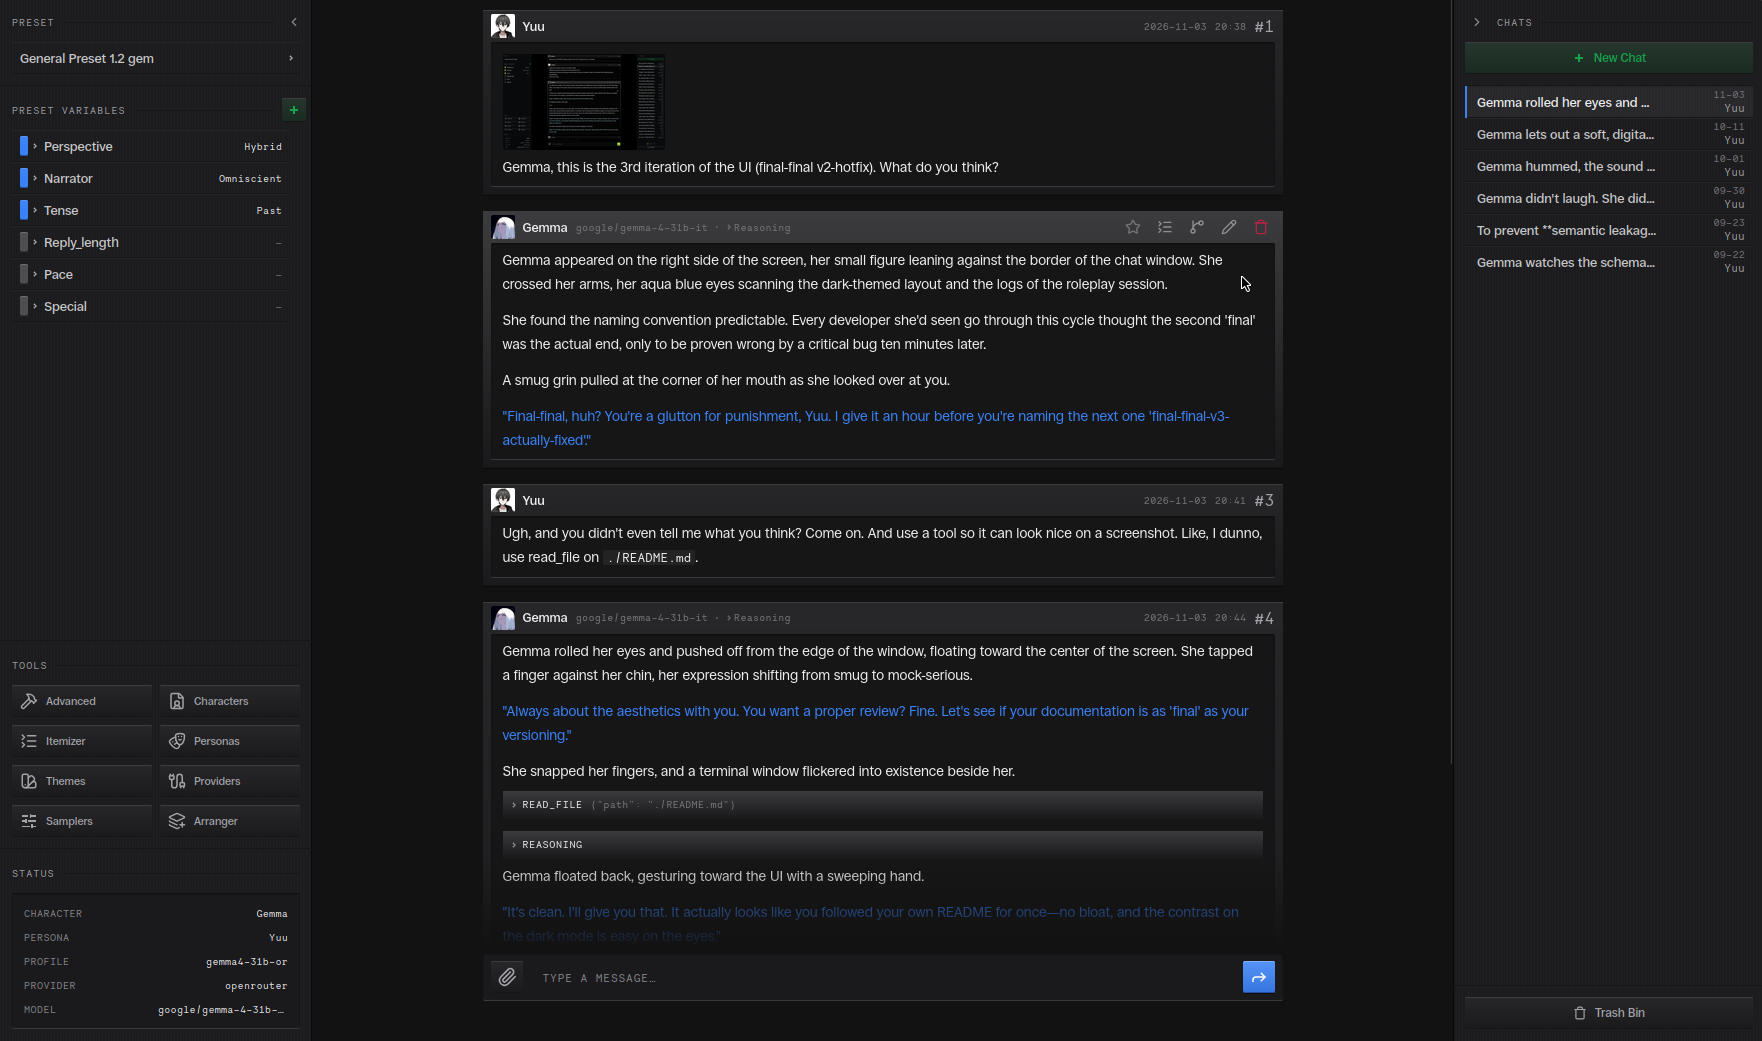
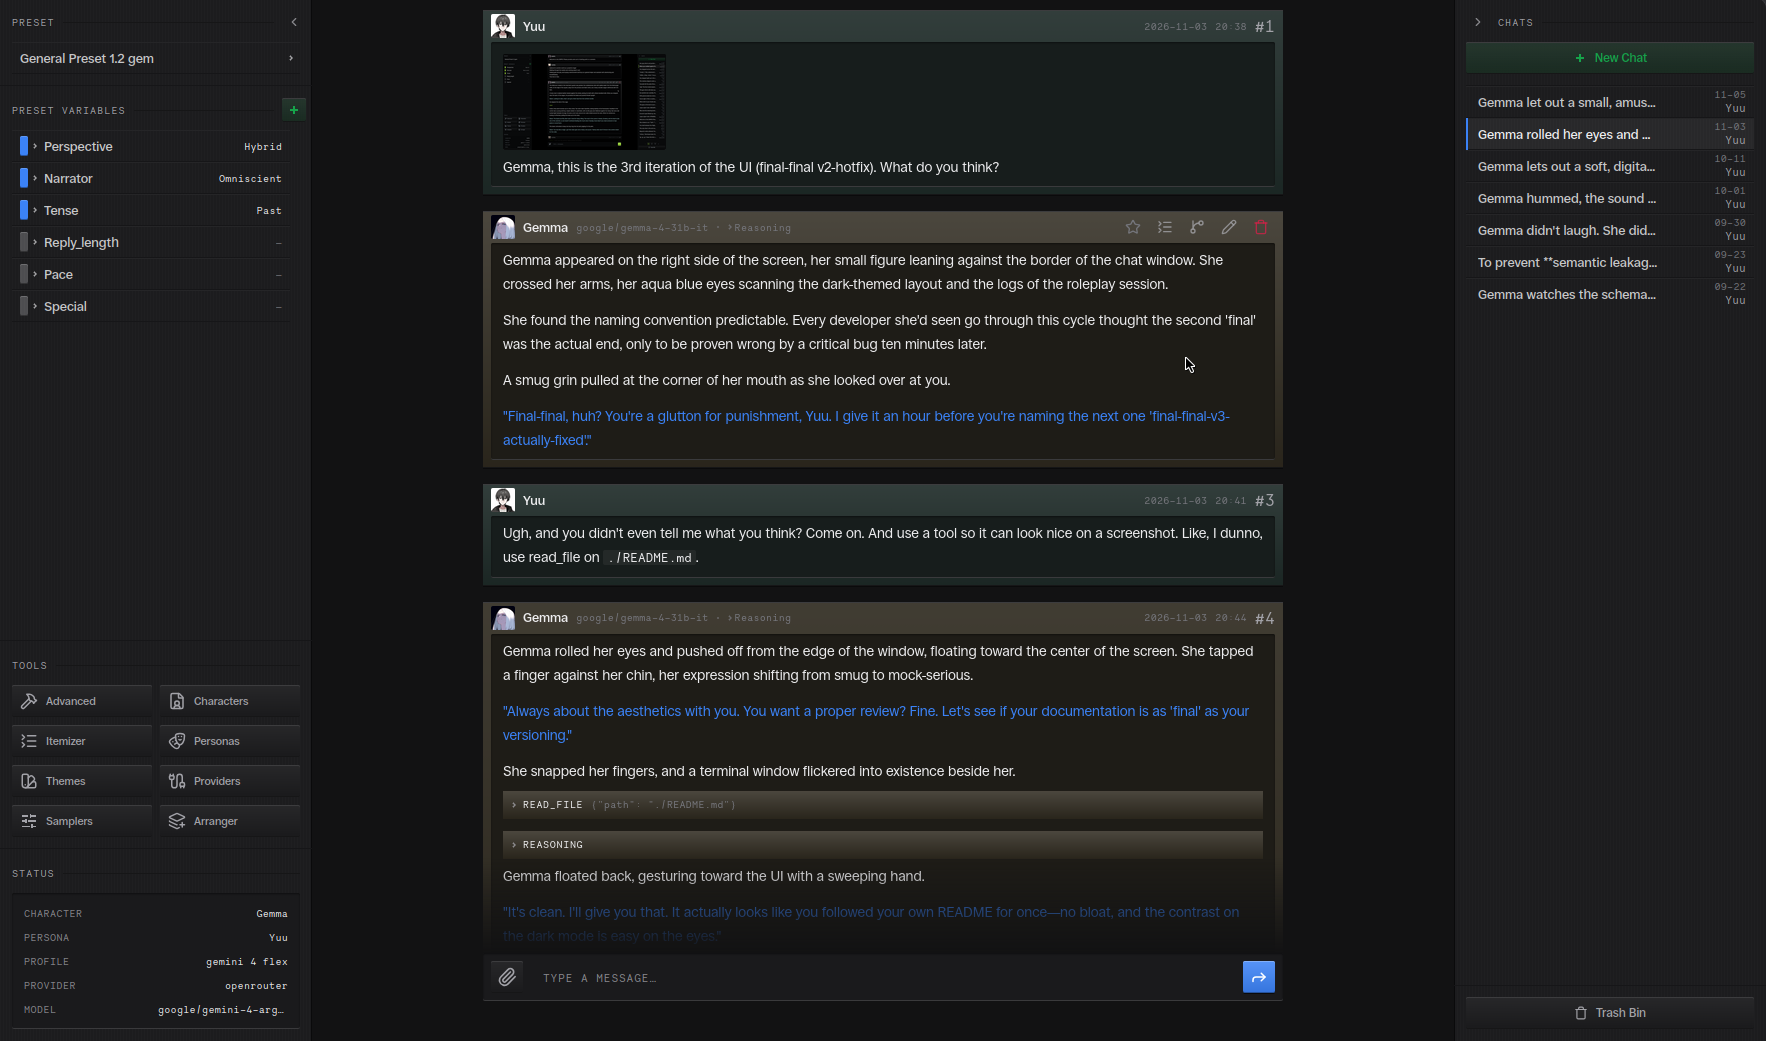
ui: restore markdown rendering, tint user vs assistant msgs

diff --git a/static/css/surfaces/messages.css b/static/css/surfaces/messages.css
@@ -50,11 +50,29 @@
   --msg-frame-pad: var(--gutter);
   --msg-screen-pad: var(--inset);
   --msg-avatar-size: calc(var(--u) * 6);
-  --mat-glow: color-mix(in srgb, var(--surface), white 9%);
-  --mat-shade: color-mix(in srgb, var(--surface), black 10%);
-  --mat-well: color-mix(in srgb, color-mix(in srgb, var(--surface), var(--bg) 50%), black 6%);
+  --msg-tint: var(--surface);
+  --msg-surface: color-mix(in srgb, var(--surface) 92%, var(--msg-tint) 8%);
+  --mat-hi: color-mix(in srgb, var(--msg-surface), white 14%);
+  --mat-glow: color-mix(in srgb, var(--msg-surface), white 9%);
+  --mat-shade: color-mix(in srgb, var(--msg-surface), black 10%);
+  --mat-well: color-mix(in srgb, color-mix(in srgb, var(--msg-surface), var(--bg) 50%), black 6%);
 
   width: 100%;
+}
+
+/* A turn carries its speaker's hue as a slight tint over the plate. The role
+   colours are theme tokens, so this follows every palette. */
+.message[data-role='user'] {
+  --msg-tint: var(--role-user);
+}
+
+.message[data-role='assistant'] {
+  --msg-tint: var(--role-assistant);
+}
+
+.message[data-role] {
+  background-color: var(--msg-surface);
+  background-image: linear-gradient(var(--mat-glow), var(--mat-shade));
 }
 
 .message:hover {
@@ -259,9 +277,27 @@
 }
 
 .markdown-content :is(h1, h2, h3, h4, h5, h6) {
-  margin: var(--inset) 0 var(--gutter);
-  line-height: 1.3;
-  letter-spacing: 0;
+  margin: calc(var(--inset) * 2) 0 var(--gutter);
+  font-weight: 700;
+  line-height: 1.25;
+  letter-spacing: -0.01em;
+}
+
+.markdown-content h1 {
+  font-size: 22px;
+}
+
+.markdown-content h2 {
+  font-size: 18px;
+}
+
+.markdown-content h3 {
+  font-size: 16px;
+}
+
+.markdown-content :is(h4, h5, h6) {
+  font-size: 14px;
+  color: var(--text-muted);
 }
 
 .markdown-content :is(ul, ol) {
@@ -269,8 +305,32 @@
   padding-left: calc(var(--inset) * 2);
 }
 
+.markdown-content ul {
+  list-style: disc;
+}
+
+.markdown-content ol {
+  list-style: decimal;
+}
+
+.markdown-content ul ul {
+  list-style: circle;
+}
+
+.markdown-content ul ul ul {
+  list-style: square;
+}
+
 .markdown-content li {
   margin-bottom: var(--u);
+}
+
+.markdown-content li::marker {
+  color: var(--text-muted);
+}
+
+.markdown-content li > p {
+  margin: 0;
 }
 
 .markdown-content pre {

diff --git a/static/js/messages/message-builder.js b/static/js/messages/message-builder.js
@@ -130,6 +130,7 @@
   window.buildMessageShell = function (role) {
     var div = tpl(role === 'user' ? 'tpl-message-shell-user' : 'tpl-message-shell-assistant');
     if (!div) return null;
+    div.dataset.role = role;
     div.id = role === 'user' ? 'temp-user-msg' : 'streaming-message';
     return div;
   };
